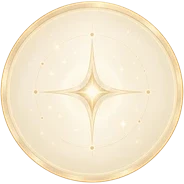
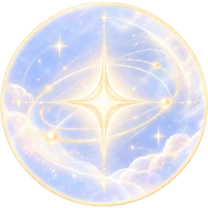
我的内在指南(手机):四张方向卡换新圆图与右侧插画
- ic-moon/sun/cloud/star 换成新的圆形素材(裁到圆边、圆外透明)
- card-ground/move/drain/call 换成新的去背插画,裁到内容范围
- 插画改放在 .cp-ent::before,贴右缘撑满高度,左缘用 mask 渐隐;
  拿掉原本盖在上面的白色渐层遮罩
- 卡片间距 12→10px

Claude-Session: https://claude.ai/code/session_01KWTtJBbV1tTkbqudQevH8t

diff --git a/app.html b/app.html
@@ -4012,26 +4012,23 @@
       background-clip:padding-box;
       border:1px solid rgba(191,163,124,.2);
       box-shadow:0 12px 30px rgba(57,44,31,.045),inset 0 1px 0 rgba(255,255,255,.9);
-      margin-bottom:12px
+      margin-bottom:10px
     }
     #dpage.compass-page .cp-ent:last-of-type{margin-bottom:0}
-    /* 卡片右侧那一小片实景:铺在珍珠底色之上、文字之下,靠一层同色
-       渐层把边缘慢慢吃掉,不是硬裁一块照片贴满整张卡。四个方向各自
-       一张,只承担卡片右侧一小块视觉份量(渐层最深处仍留一点底色,
-       插画不会用满饱和度)。渐层留到 62% 才开始退,盖住整个文字栏
-       (数字/圆图/标题/说明最宽到 82% 左右),这样素材才像是设计里
-       长出来的,不是贴上去的。 */
-    #dpage.compass-page .cp-ent::after{
-      content:"";position:absolute;inset:0;z-index:0;pointer-events:none;
-      background:linear-gradient(90deg,
-        rgba(252,249,243,1) 0%,rgba(252,249,243,1) 62%,
-        rgba(252,249,243,.72) 76%,rgba(252,249,243,.34) 88%,
-        rgba(252,249,243,.16) 100%)
+    /* 卡片右侧的实景插画(素材本身已去背、左缘是柔边):放在 ::before
+       一层,贴齐卡片右缘、高度撑满,宽度随素材比例(约占卡片右侧四成)。
+       再用 mask 把插画最左边那一段慢慢淡掉,跟珍珠底色融在一起,
+       不会看到素材边缘。卡片底色本身只剩珍珠渐层。 */
+    #dpage.compass-page .cp-ent::before{
+      content:"";position:absolute;top:0;right:0;bottom:0;width:62%;z-index:0;pointer-events:none;
+      background:right center / auto 100% no-repeat;
+      -webkit-mask-image:linear-gradient(90deg,transparent 0,transparent 18%,#000 58%);
+              mask-image:linear-gradient(90deg,transparent 0,transparent 18%,#000 58%)
     }
-    #dpage.compass-page .cp-ent.d1{background-image:url(assets/life/cp-mobile/card-ground.webp),linear-gradient(135deg,rgba(255,255,255,.94),rgba(250,247,242,.88));background-size:cover,cover;background-position:right center,center}
-    #dpage.compass-page .cp-ent.d2{background-image:url(assets/life/cp-mobile/card-move.webp),linear-gradient(135deg,rgba(255,255,255,.94),rgba(250,247,242,.88));background-size:cover,cover;background-position:right center,center}
-    #dpage.compass-page .cp-ent.d3{background-image:url(assets/life/cp-mobile/card-drain.webp),linear-gradient(135deg,rgba(255,255,255,.94),rgba(250,247,242,.88));background-size:cover,cover;background-position:right center,center}
-    #dpage.compass-page .cp-ent.d4{background-image:url(assets/life/cp-mobile/card-call.webp),linear-gradient(135deg,rgba(255,255,255,.94),rgba(250,247,242,.88));background-size:cover,cover;background-position:right center,center}
+    #dpage.compass-page .cp-ent.d1::before{background-image:url(assets/life/cp-mobile/card-ground.webp)}
+    #dpage.compass-page .cp-ent.d2::before{background-image:url(assets/life/cp-mobile/card-move.webp)}
+    #dpage.compass-page .cp-ent.d3::before{background-image:url(assets/life/cp-mobile/card-drain.webp)}
+    #dpage.compass-page .cp-ent.d4::before{background-image:url(assets/life/cp-mobile/card-call.webp)}
     #dpage.compass-page .cp-ent > *{position:relative;z-index:1}
     /* 手机版卡片不放 01–04 编号,直接从圆图开始 */
     #dpage.compass-page .cp-ent .no{display:none}
